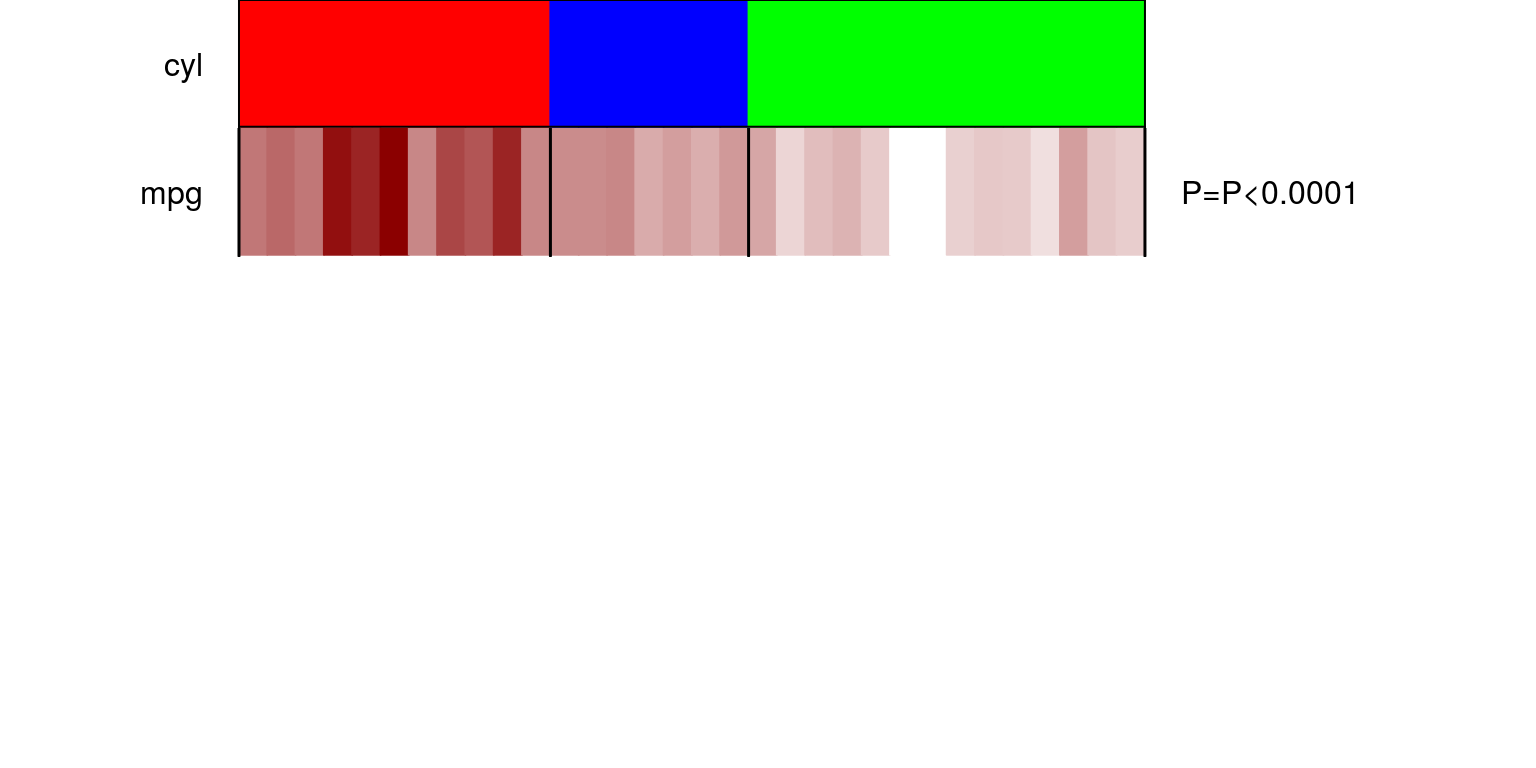
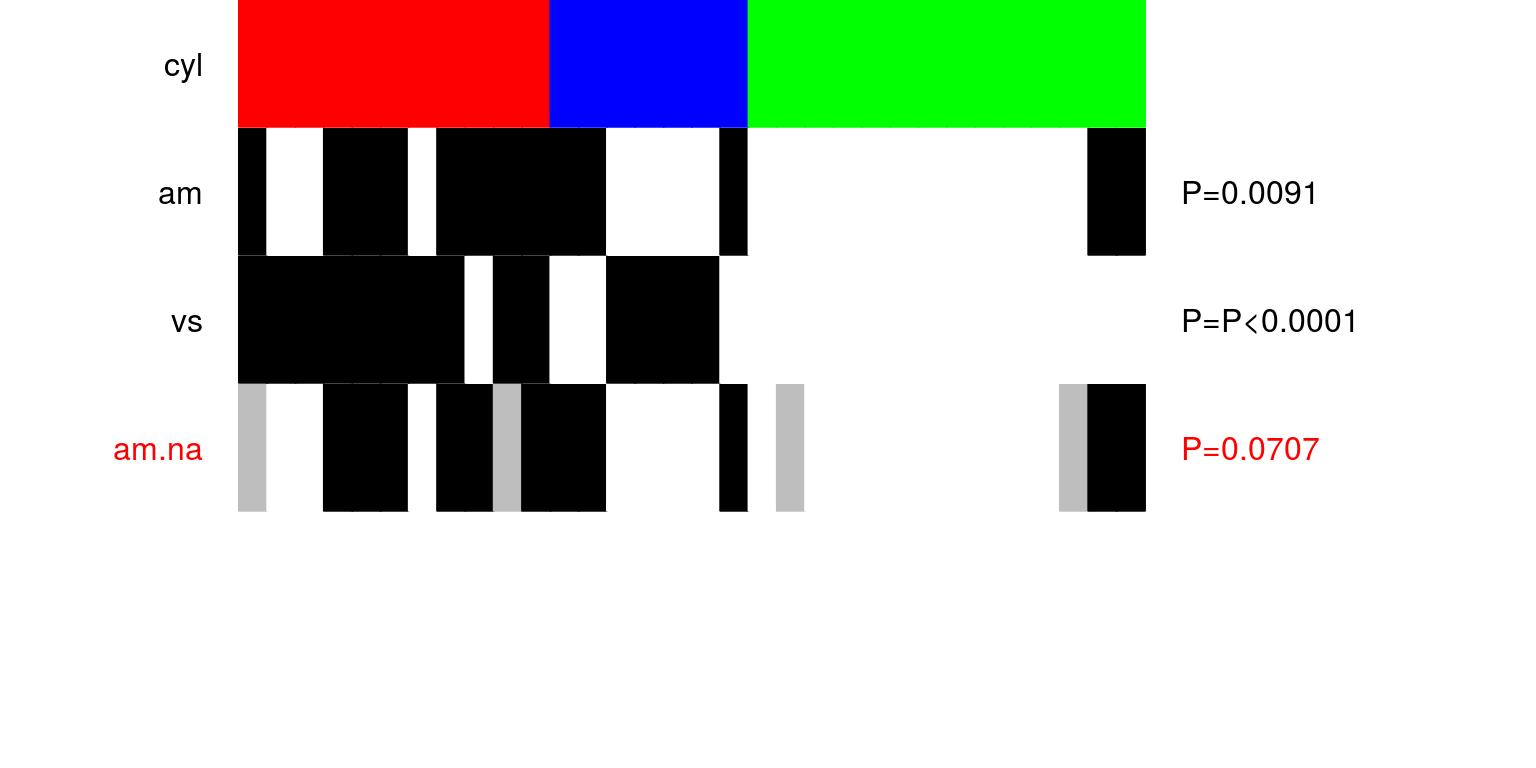
add table to README

diff --git a/README.md b/README.md
@@ -16,13 +16,20 @@ See below an example of `panelmap`.
 Installation
 ------------
 
+``` r
+library(devtools)
+install_github("arorarshi/panelmap")
+```
+
 Requirements
 ------------
+
+*panelmap* requires the following packages - `coin, plyr and circlize`
 
 Example - panelmap
 ------------------
 
-We will illustarate *panlemap* by sorting mtcars data according to variable *c**y**l* and plotting *m**p**g*, *v**s*, *a**m* and *g**e**a**r* to undersatnd the relationship between them.
+We will illustarate *panlemap* by sorting mtcars data according to variable `cyl` and plotting `mpg, vs, am` and `gear` to undersatnd the relationship between them.
 
 ``` r
 
@@ -36,11 +43,14 @@ mat.col=list(am=c("white","black"), vs=c("white","black"), gear=c("yellow","oran
 
 #type of each feature. type=1 for discrete and type=2 for continuous. 
 mat.type= c(2,1,1,1)
-tt=makepanel(soln=mtcars.sort$cyl, soln.name="cyl",soln.col=c("red","blue","green"), mat=mat, mat.col=mat.col, mat.type=mat.type, border=TRUE, legend=TRUE)
-#kable(tt, caption="Association table corresponding to panelmap")
+tab=makepanel(soln=mtcars.sort$cyl, soln.name="cyl",soln.col=c("red","blue","green"), mat=mat, mat.col=mat.col, mat.type=mat.type, border=TRUE, legend=TRUE, get.pval=TRUE)
+## Performing Kruskal-Wallis test
+## Performing Fisher's Exact test
+## Performing Fisher's Exact test
+## Performing Fisher's Exact test
 ```
 
-<img src="README_figures/README-unnamed-chunk-2-1.png" width="768" />
+<img src="README_figures/README-unnamed-chunk-3-1.png" width="768" />
 
 One can see, how all the variables align with vehicles with 4,6 and 8 cylinder engines, all at a single glance!
 
@@ -51,7 +61,7 @@ One can see, how all the variables align with vehicles with 4,6 and 8 cylinder e
 Example - circomap
 ------------------
 
-*circomap* is a visulaizing tool to plot and anlyze multiple panelmaps, insipired by the circlize^{1} package.
+*circomap* is a visulaizing tool to plot and anlyze multiple panelmaps, insipired by the circlize<sup>1</sup> package.
 
 To illustrate the functionality of *circomap* we will draw the above panelmap three times in a circular layout.
 
@@ -82,15 +92,9 @@ fcol=list(am=c("white","black"), vs=c("white","black"), gear=c("yellow","orange"
 fheight<-list(); fheight[1:length(ftoplot)] = 0.08
 #Voila!! 
 circomap(datasets, gtoplot, gcol, gheight, ftoplot, ftype, fcol, fheight)
-## Note: 1 point is out of plotting region in sector 'dat1', track
-## '1'.
-## Note: 1 point is out of plotting region in sector 'dat2', track
-## '1'.
-## Note: 1 point is out of plotting region in sector 'dat3', track
-## '1'.
 ```
 
-<img src="README_figures/README-unnamed-chunk-3-1.png" width="768" />
+<img src="README_figures/README-unnamed-chunk-4-1.png" width="768" />
 
 Functions and Usage
 -------------------
@@ -112,7 +116,7 @@ mtcars.sort = mtcars[order(mtcars$cyl),]
 tt=panelet_group(soln=mtcars.sort$cyl, soln.col=c("red","blue","green"),soln.name="cyl",cex=1, border=FALSE, legend=FALSE)
 ```
 
-<img src="README_figures/README-unnamed-chunk-4-1.png" width="768" />
+<img src="README_figures/README-unnamed-chunk-5-1.png" width="768" />
 
 `cex` controls the magnification of text labels on the left-hand side. `border` and `legend` take logical values and their default value is `FALSE`.
 
@@ -148,7 +152,7 @@ am.na[c(1,10,20,30)] = NA
 tt=panelet_category(pp=am.na, pp.col=c("white", "black"), soln=mtcars.sort$cyl, var.n="am.na", get.pval=TRUE, NA.flag=TRUE, NA.col="grey", labels.col = "red")
 ```
 
-<img src="README_figures/README-unnamed-chunk-5-1.png" width="768" />
+<img src="README_figures/README-unnamed-chunk-6-1.png" width="768" />
 
 See how there are grey bars in panelet row **am.na** corresponding to NA at values 1,10,20 and 30.
 
@@ -173,12 +177,36 @@ tt =panelet_continuous(mtcars.sort$mpg, pp.col=c("white","darkred"), soln=mtcars
 ## Performing Kruskal-Wallis test
 ```
 
-<img src="README_figures/README-unnamed-chunk-6-1.png" width="768" />
+<img src="README_figures/README-unnamed-chunk-7-1.png" width="768" />
 
 ### makepanel
 
 `makepanel` is a wrapper function that outputs a legend, an association table and the panelmap, all with one command. You need to provide the meta information of your data set like, colors, data type, labels color etc. See \[Example\]
 
+``` r
+kable(tab, caption="Association table corresponding to panelmap")
+```
+
+|      | 4               | 6                 | 8                 | RowTotal   | pval        |
+|------|:----------------|:------------------|:------------------|:-----------|:------------|
+| mpg  | 26\[21.4-33.9\] | 19.7\[17.8-21.4\] | 15.2\[10.4-19.2\] |            | P&lt;0.0001 |
+| NA   | 0               | 0                 | 0                 |            |             |
+| vs   |                 |                   |                   |            | P&lt;0.0001 |
+| 0    | 1(9%)           | 3(43%)            | 14(100%)          | 18(56.25%) |             |
+| 1    | 10(91%)         | 4(57%)            | 0(0%)             | 14(43.75%) |             |
+| am   |                 |                   |                   |            | 0.0091      |
+| 0    | 3(27%)          | 4(57%)            | 12(86%)           | 19(59.38%) |             |
+| 1    | 8(73%)          | 3(43%)            | 2(14%)            | 13(40.62%) |             |
+| gear |                 |                   |                   |            | P&lt;0.0001 |
+| 3    | 1(9%)           | 2(29%)            | 12(86%)           | 15(46.88%) |             |
+| 4    | 8(73%)          | 4(57%)            | 0(0%)             | 12(37.5%)  |             |
+| 5    | 2(18%)          | 1(14%)            | 2(14%)            | 5(15.62%)  |             |
+
 ### circomap
 
 to do
+
+Reference
+---------
+
+1.  Gu, Z. circlize implements and enhances circular visualization in R. Bioinformatics 2014.
